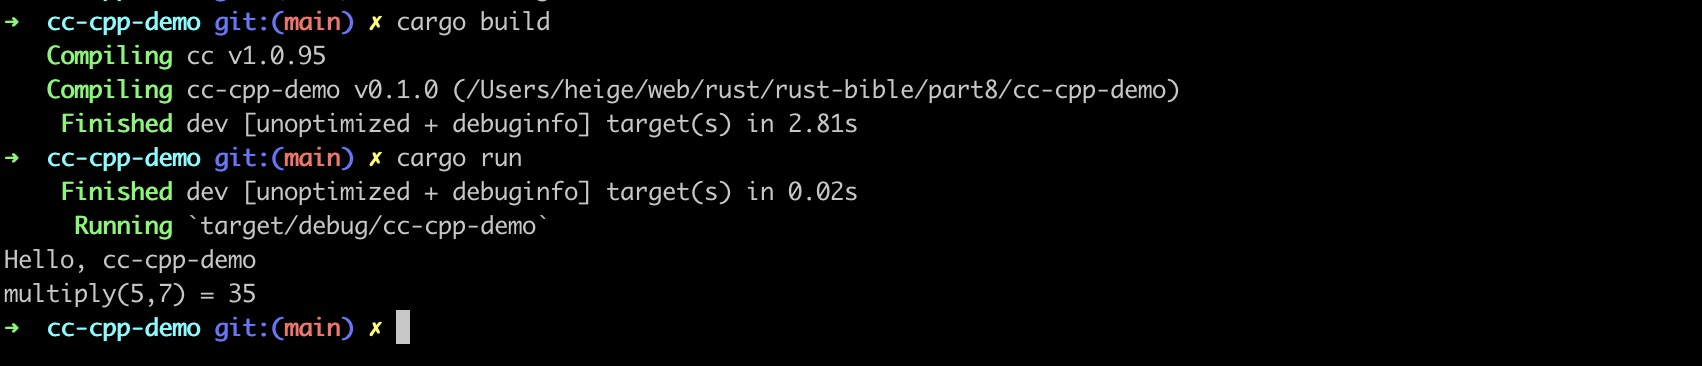
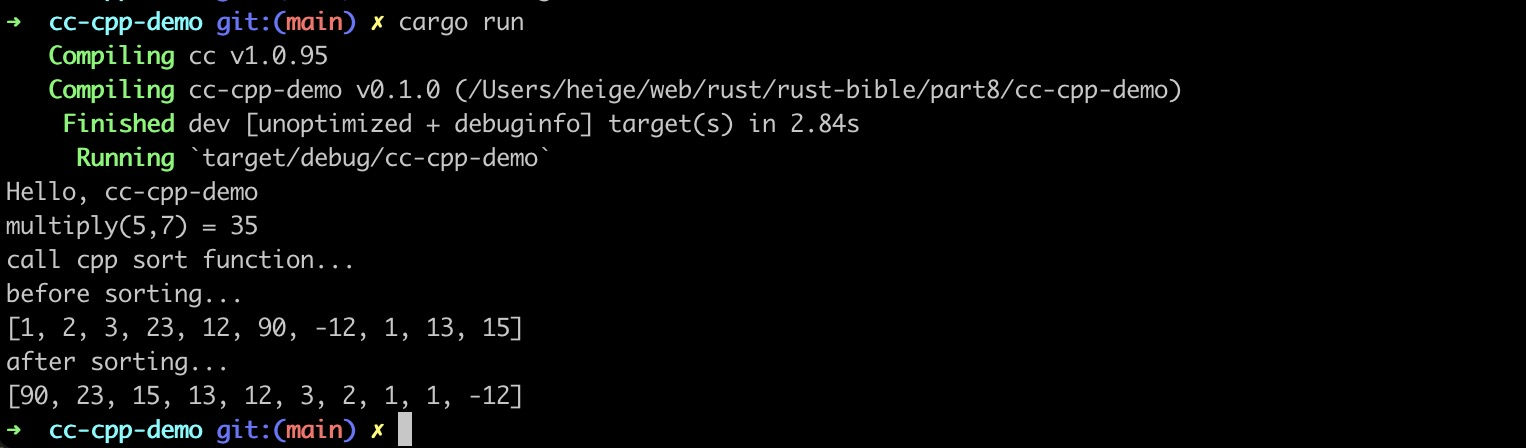
feat: update cc cpp

Changed region(s): [[0.0, 0.0301, 0.77, 1.0], [0.0, 0.9918, 0.0308, 1.0]]

diff --git a/part8/cc-cpp-demo/src/main.rs b/part8/cc-cpp-demo/src/main.rs
@@ -1,6 +1,14 @@
 // 声明这是一个外部函数
 extern "C" {
     fn multiply(x: i32, y: i32) -> i32;
+    fn interop_sort(arr: *mut i32, n: u32);
+}
+
+pub fn sort_from_cpp(arr: &mut [i32]) {
+    unsafe {
+        // 将arr转换为i32切片指针对象，接着再转换为i32 vec指针，也就是cpp vector类型
+        interop_sort(arr as *mut [i32] as *mut i32, arr.len() as u32);
+    }
 }
 
 fn main() {
@@ -9,4 +17,15 @@ fn main() {
     unsafe {
         println!("multiply(5,7) = {}", multiply(5, 7));
     }
+
+    println!("call cpp sort function...");
+    // 定义一个i32的数组
+    let mut my_arr: [i32; 10] = [1, 2, 3, 23, 12, 90, -12, 1, 13, 15];
+    println!("before sorting...");
+    println!("{:?}", my_arr);
+
+    // 将切作为参数传递
+    sort_from_cpp(&mut my_arr);
+    println!("after sorting...");
+    println!("{:?}", my_arr);
 }

diff --git a/part8/cc-cpp-demo/src/foo.cpp b/part8/cc-cpp-demo/src/foo.cpp
@@ -1,12 +1,18 @@
-// foo.cpp
+// foo.cpp 具体函数实现
 // Created by daheige on 2024/4/27.
-// 通过在我们的 C++源文件的顶部，添加extern "C"部分，防止 C++编译器的名称篡改
-extern "C" {
-// 函数签名
-int multiply(int, int);
-}
+#include "foo.h"
+
+using namespace std;
 
 // 函数定义
 int multiply(int x, int y) {
     return x * y;
+}
+
+// 实现函数interop_sort
+void interop_sort(int numbers[], size_t size) {
+    int *start = &numbers[0]; // 数组的第一个元素
+    int *end = &numbers[0] + size; // 数组的最后一个元素
+    // 从大到小进行排序
+    std::sort(start, end, [](int x, int y) { return x > y; });
 }

diff --git a/part8/cc-demo/src/main.rs b/part8/cc-demo/src/main.rs
@@ -12,6 +12,7 @@ use std::os::raw::c_char;
 #[link(name = "foo")]
 extern "C" {
     // 这个标识标识在rust语言中通过ffi方式引入C语言的代码
+    // 也就是说通过extern块引入C语言定义的代码
     fn foo();
     fn greet(name: *const c_char);
     fn print_app_info();

diff --git a/part8/cc-cpp-demo/src/foo.h b/part8/cc-cpp-demo/src/foo.h
@@ -1,0 +1,9 @@
+#include <iostream>
+
+// 头文件定义
+// 添加extern "C"部分，防止 C++编译器的名称篡改
+extern "C" {
+// 函数签名
+int multiply(int, int);
+void interop_sort(int numbers[], size_t size);
+}
